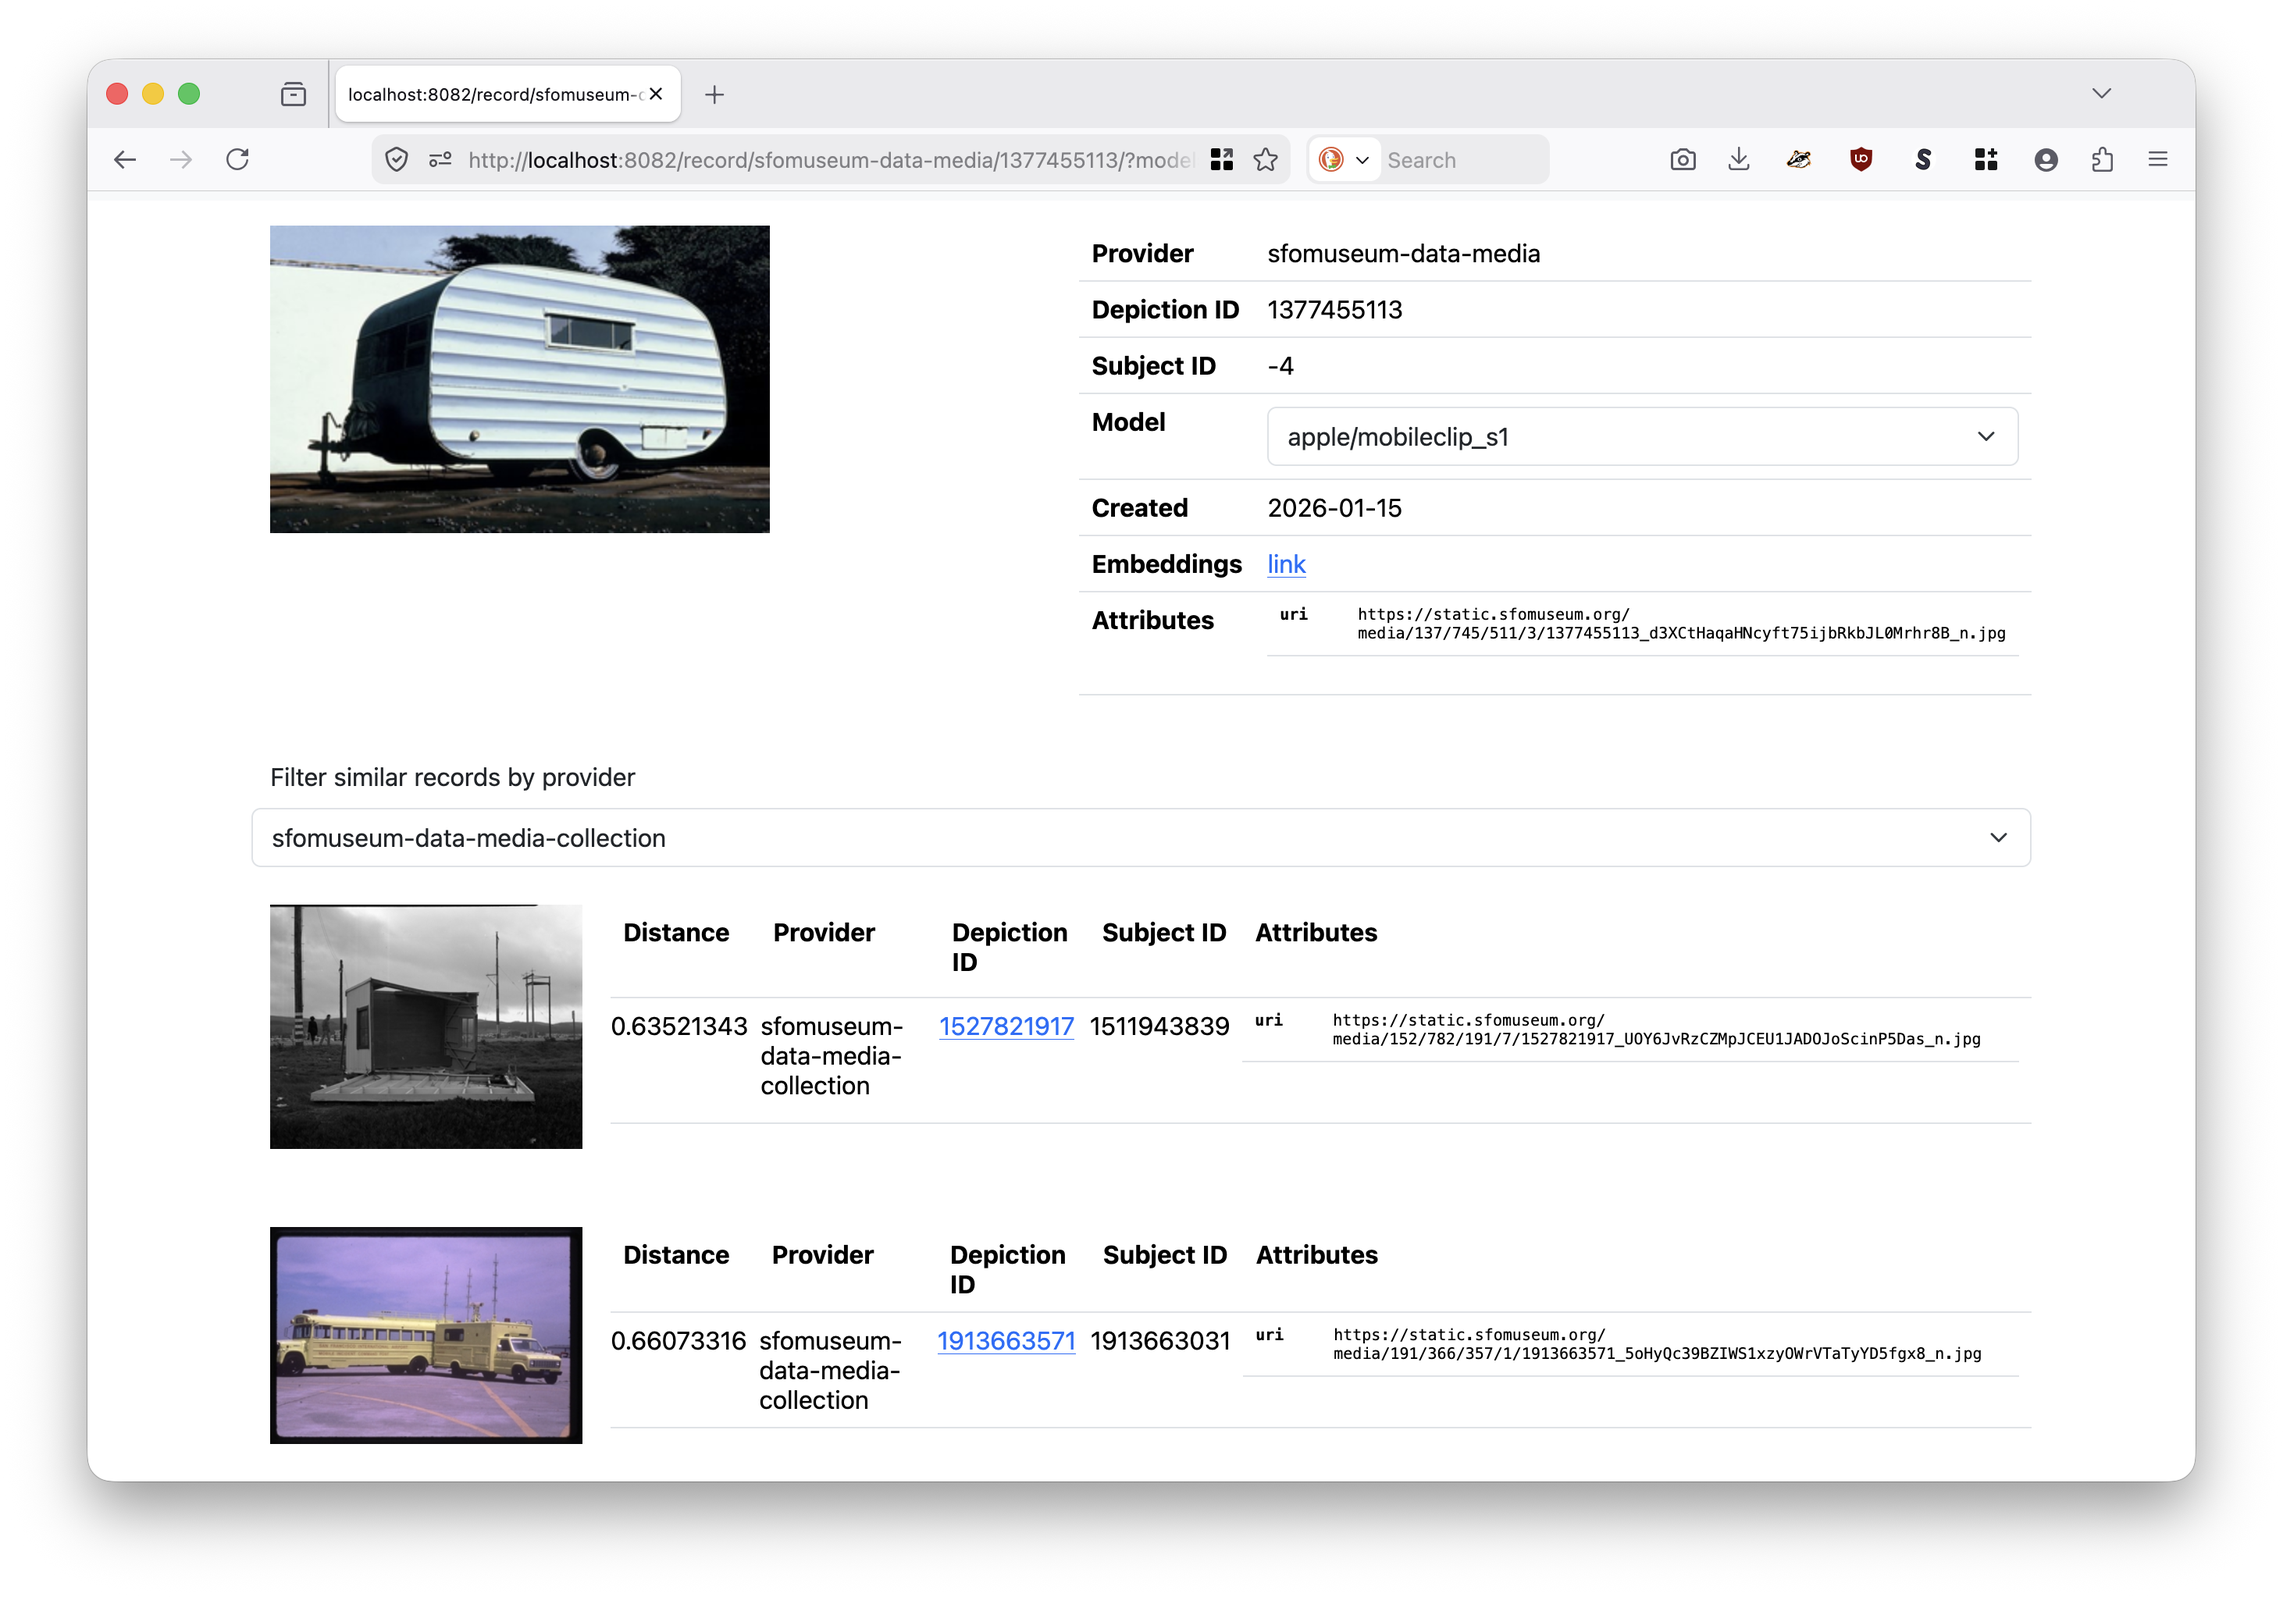
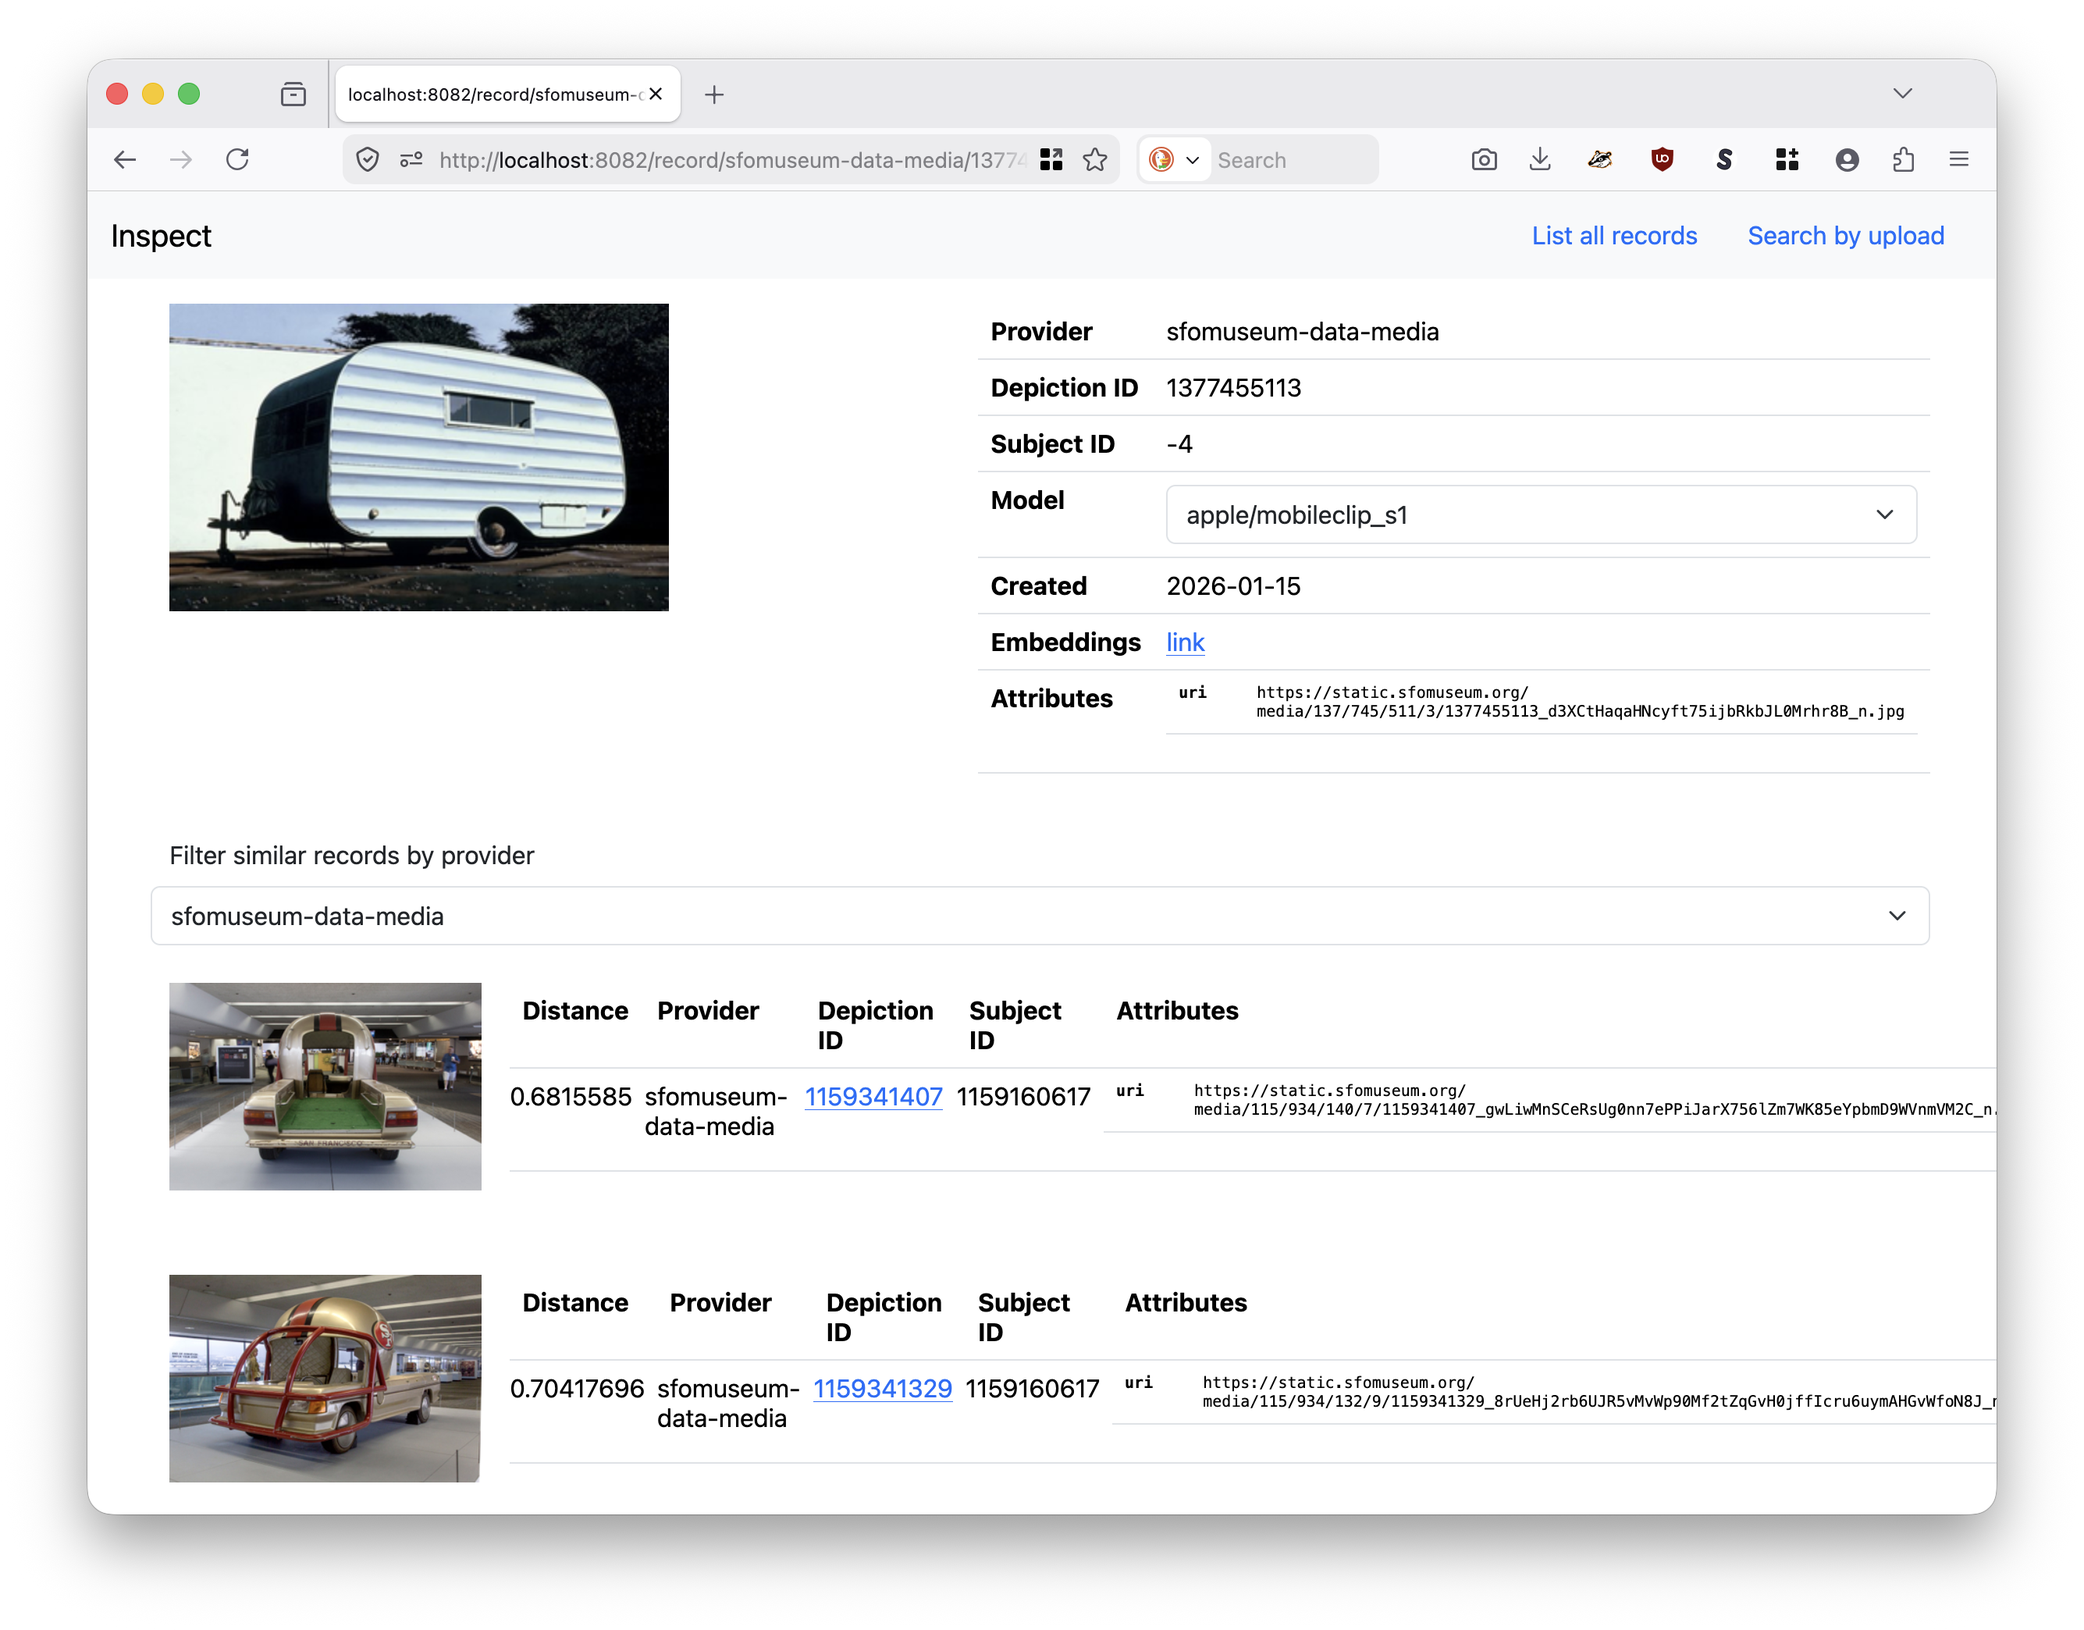
move inspector specific stuff in to app/inspector; improved docs; bug fix filtering on provider in record view

diff --git a/app/inspector/www/static/javascript/record.init.js b/app/inspector/www/static/javascript/record.init.js
@@ -89,10 +89,6 @@ window.addEventListener('load', function(e){
 	const el = e.target;
 	const v = el.value;
 
-	if (v == current_provider){
-	    return false;
-	}
-
 	const u = new URL("/", location);
 	const s = new URLSearchParams();
 	

diff --git a/app/inspector/http/api/embeddings.go b/app/inspector/http/api/embeddings.go
@@ -6,34 +6,34 @@ import (
 
 	"github.com/aaronland/go-http/v4/slog"
 	"github.com/sfomuseum/go-embeddingsdb/database"
-	embeddingsdb_http "github.com/sfomuseum/go-embeddingsdb/http"
+	inspector_http "github.com/sfomuseum/go-embeddingsdb/app/inspector/http"
 )
 
-type SimilarHandlerOptions struct {
+type EmbeddingsHandlerOptions struct {
 	Database database.Database
 }
 
-func SimilarHandler(opts *SimilarHandlerOptions) (http.Handler, error) {
+func EmbeddingsHandler(opts *EmbeddingsHandlerOptions) (http.Handler, error) {
 
 	fn := func(rsp http.ResponseWriter, req *http.Request) {
 
 		logger := slog.LoggerWithRequest(req, nil)
 
-		similar, err := embeddingsdb_http.GetSimilarRecordsFromRequest(req, opts.Database)
+		record, err := inspector_http.GetRecordFromRequest(req, opts.Database)
 
 		if err != nil {
-			logger.Error("Failed to get similar records", "error", err)
-			http.Error(rsp, "Internal server error", http.StatusInternalServerError)
+			logger.Error("Failed to get database record", "error", err)
+			http.Error(rsp, "Not found", http.StatusNotFound)
 			return
 		}
 
 		rsp.Header().Set("Content-type", "application/json")
 
 		enc := json.NewEncoder(rsp)
-		err = enc.Encode(similar)
+		err = enc.Encode(record.Embeddings)
 
 		if err != nil {
-			logger.Error("Failed to encode results", "error", err)
+			logger.Error("Failed to encode record", "error", err)
 			http.Error(rsp, "Internal server error", http.StatusInternalServerError)
 			return
 		}
